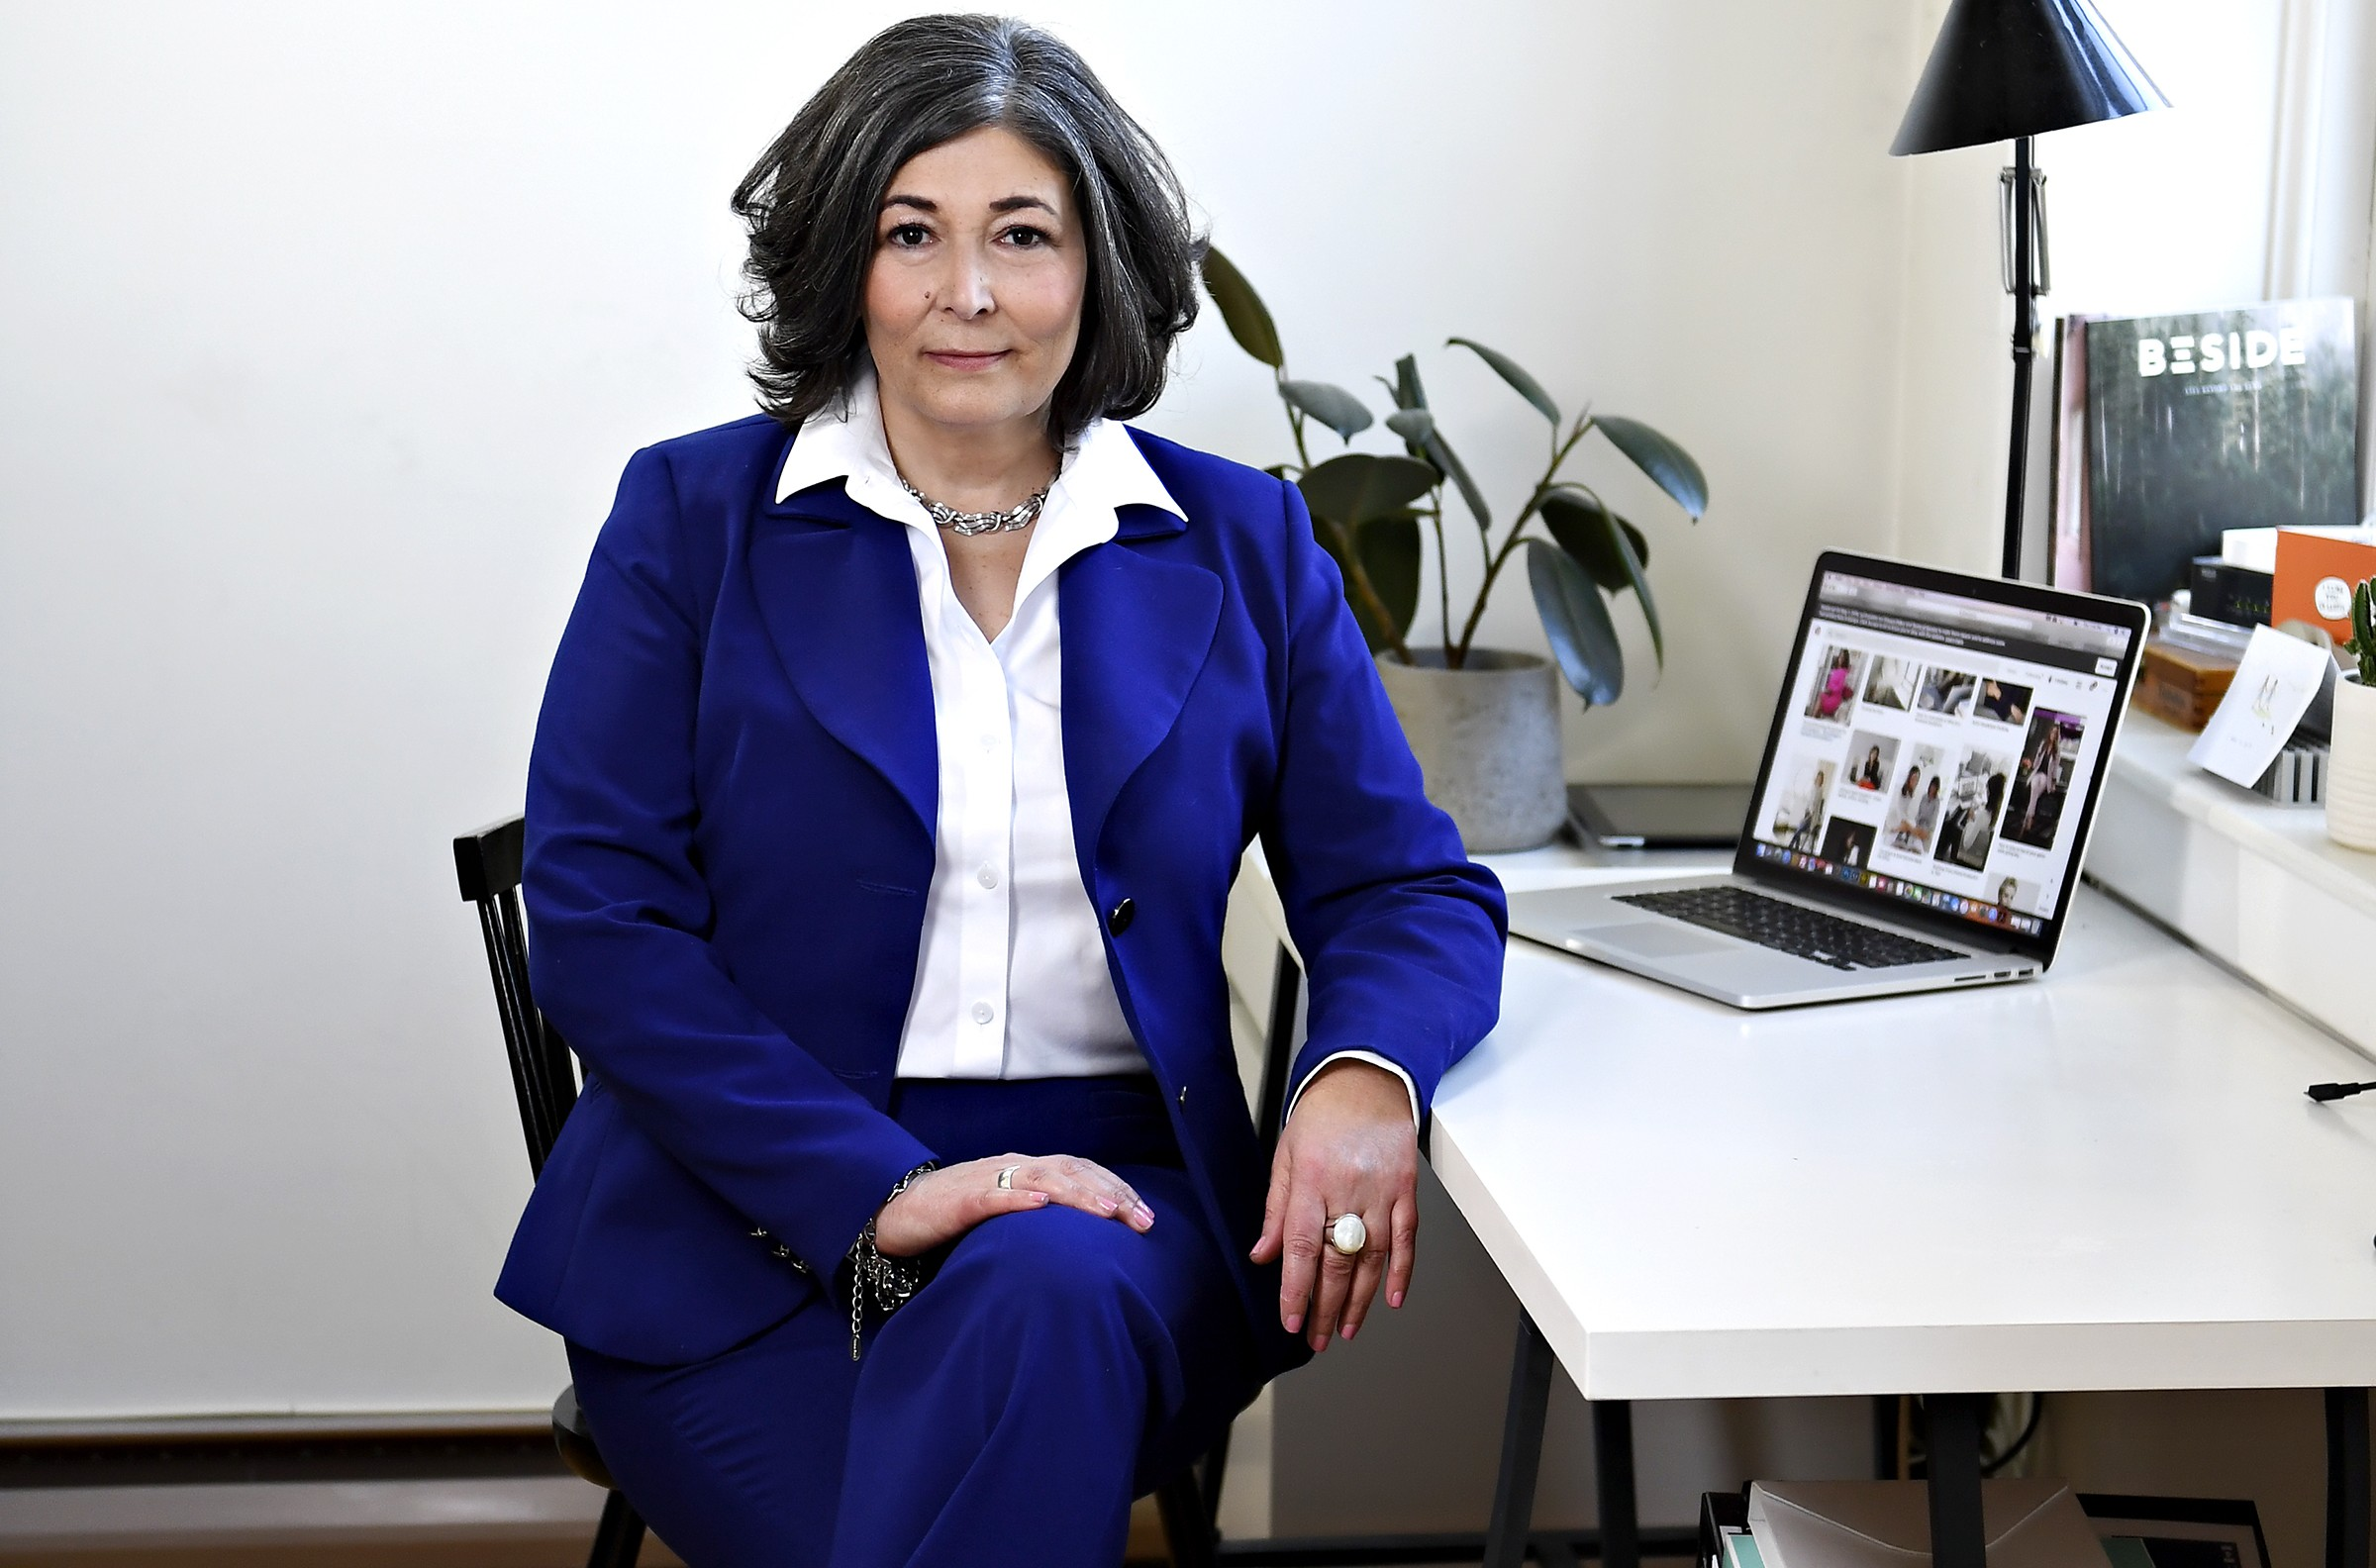
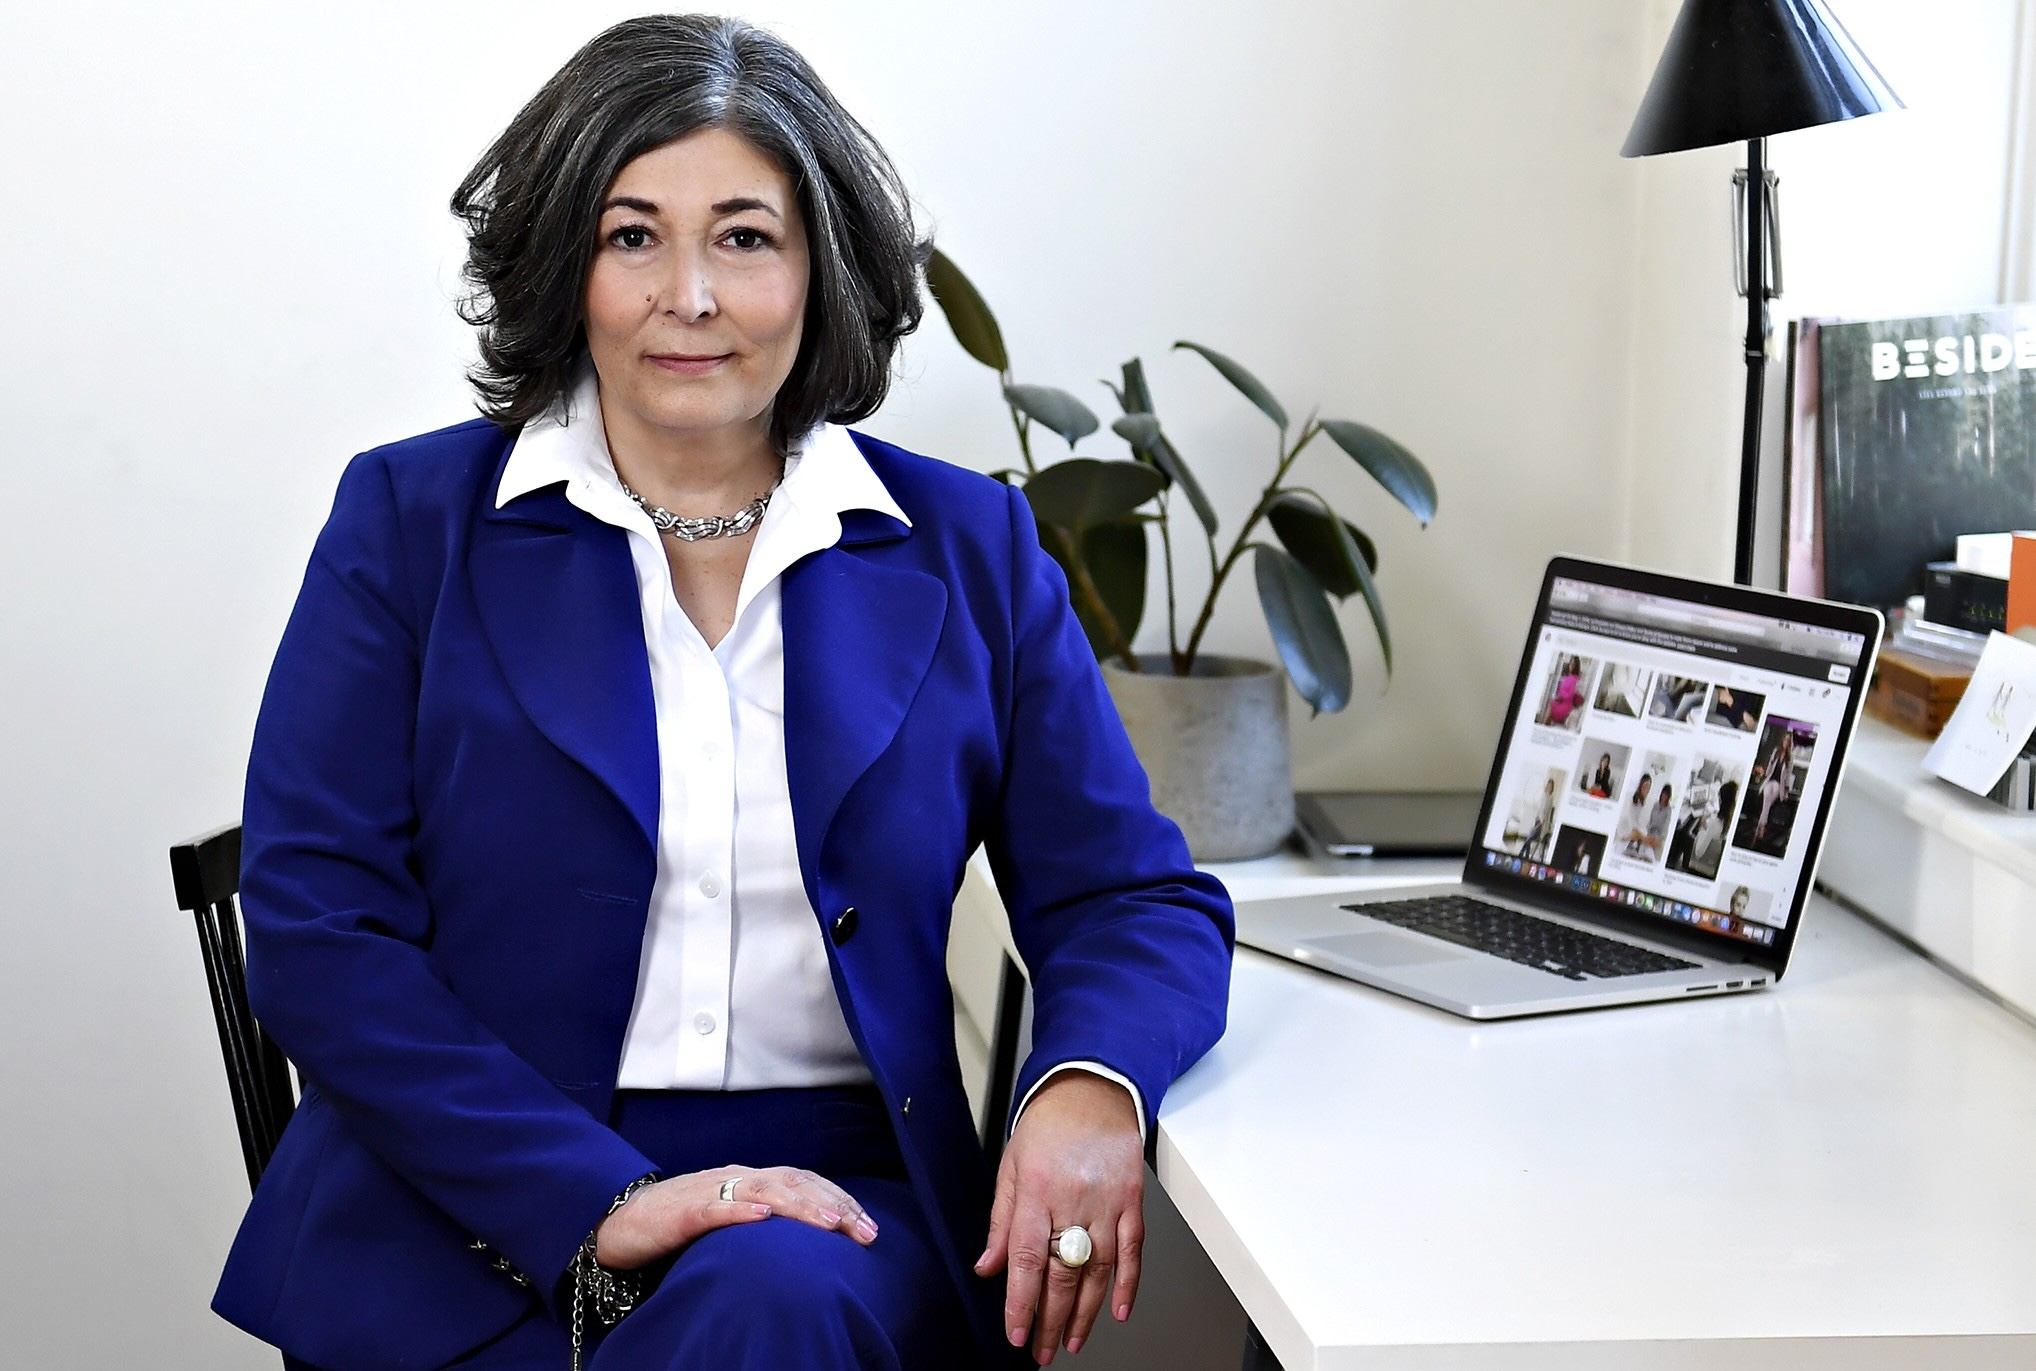
fix: update headshot crop, thank-you page design, contact detail spacing

diff --git a/layouts/_default/thank-you.html b/layouts/_default/thank-you.html
@@ -1,0 +1,64 @@
+{{ define "main" }}
+{{/*
+    thank-you.html — Confirmation page shown after contact form submission.
+
+    Matches the visual language of the rest of the site:
+    - Page banner (dark navy, gold descriptor) consistent with all interior pages
+    - Centred confirmation section with checkmark, message, and nav links
+    - No date rendering (transactional page, not a post)
+*/}}
+
+
+{{/* ── PAGE BANNER ─────────────────────────────────────────── */}}
+<div class="page-banner">
+    <div class="page-banner-inner">
+        <div class="page-breadcrumb">
+            <a href="/">Home</a>
+            <span>→</span>
+            <a href="/contact">Contact</a>
+            <span>→</span>
+            <span>Thank You</span>
+        </div>
+        <h1>Message Received</h1>
+        <p class="page-banner-desc">Alexandra will be in touch within one business day</p>
+    </div>
+</div>
+
+
+{{/* ── CONFIRMATION BODY ─────────────────────────────────────── */}}
+<section class="thankyou-page">
+    <div class="thankyou-inner">
+
+        <div class="thankyou-check" aria-hidden="true">✓</div>
+
+        <h2>Your message is on its way.</h2>
+        <p>Thanks for reaching out. Alexandra will review your message and respond within one business day with a link to book your free 30-minute discovery call. The call is free, confidential, and without obligation.</p>
+
+        <div class="thankyou-explore">
+            <p class="thankyou-explore-label">In the meantime, explore the work</p>
+            <div class="thankyou-links">
+                <a href="/coaching" class="thankyou-link">
+                    <span class="thankyou-link-title">Leadership Coaching</span>
+                    <span class="thankyou-link-arrow">→</span>
+                </a>
+                <a href="/change-management" class="thankyou-link">
+                    <span class="thankyou-link-title">Change Management</span>
+                    <span class="thankyou-link-arrow">→</span>
+                </a>
+                <a href="/corporate" class="thankyou-link">
+                    <span class="thankyou-link-title">Corporate Development</span>
+                    <span class="thankyou-link-arrow">→</span>
+                </a>
+                <a href="/insights" class="thankyou-link">
+                    <span class="thankyou-link-title">Insights</span>
+                    <span class="thankyou-link-arrow">→</span>
+                </a>
+            </div>
+        </div>
+
+        <a href="/" class="btn btn-primary thankyou-btn">← Back to Home</a>
+
+    </div>
+</section>
+
+{{ end }}

diff --git a/layouts/_default/contact.html b/layouts/_default/contact.html
@@ -58,13 +58,15 @@
             </ul>
 
             {{/* Direct contact details */}}
-            <div class="contact-detail">
-                <span>✉</span>
-                <a href="mailto:{{ .Site.Params.email }}">{{ .Site.Params.email }}</a>
-            </div>
-            <div class="contact-detail">
-                <span>☎</span>
-                <a href="tel:{{ .Site.Params.phone }}">{{ .Site.Params.phone }}</a>
+            <div class="contact-details">
+                <div class="contact-detail">
+                    <span class="icon-envelope">✉</span>
+                    <a href="mailto:{{ .Site.Params.email }}">{{ .Site.Params.email }}</a>
+                </div>
+                <div class="contact-detail">
+                    <span>☎</span>
+                    <a href="tel:{{ .Site.Params.phone }}">{{ .Site.Params.phone }}</a>
+                </div>
             </div>
         </div>
 

diff --git a/content/thank-you.md b/content/thank-you.md
@@ -1,19 +1,8 @@
 ---
 title: "Thank You"
 description: "Your message has been received. Alexandra will be in touch within one business day."
+layout: "thank-you"
 date: 2026-06-03
 draft: false
 noindex: true
 ---
-
-## Your message is on its way.
-
-Thanks for reaching out. Alexandra will review your message and respond within one business day with a link to book your free 30-minute discovery call.
-
-In the meantime, you're welcome to explore some of the thinking behind the work:
-
-- [Leadership Coaching](/coaching)
-- [Change Management](/change-management)
-- [Insights](/insights)
-
-[← Back to Home](/)